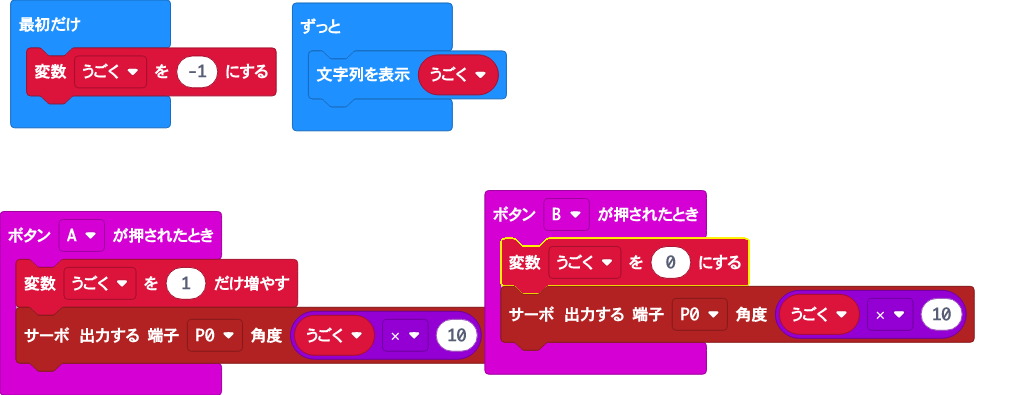
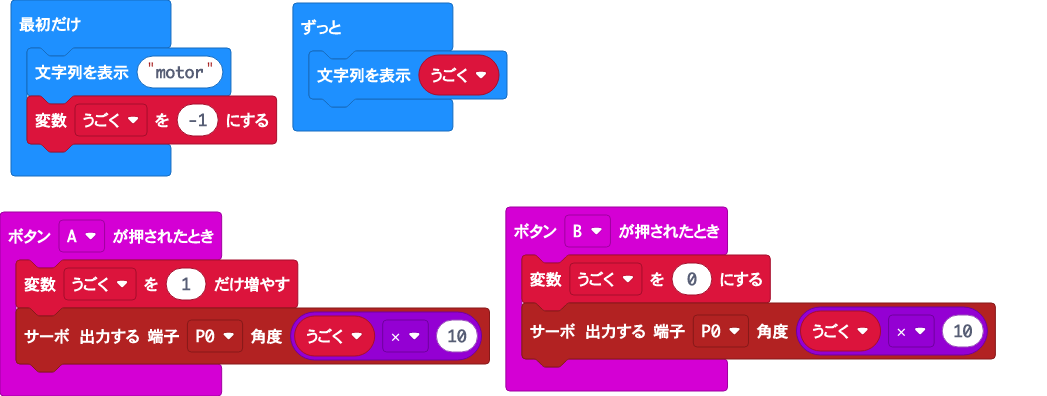
Update main.blocks, main.ts

diff --git a/main.ts b/main.ts
@@ -7,6 +7,7 @@ input.onButtonPressed(Button.B, function () {
     pins.servoWritePin(AnalogPin.P0, うごく * 10)
 })
 let うごく = 0
+basic.showString("motor")
 うごく = -1
 basic.forever(function () {
     basic.showString("" + (うごく))
